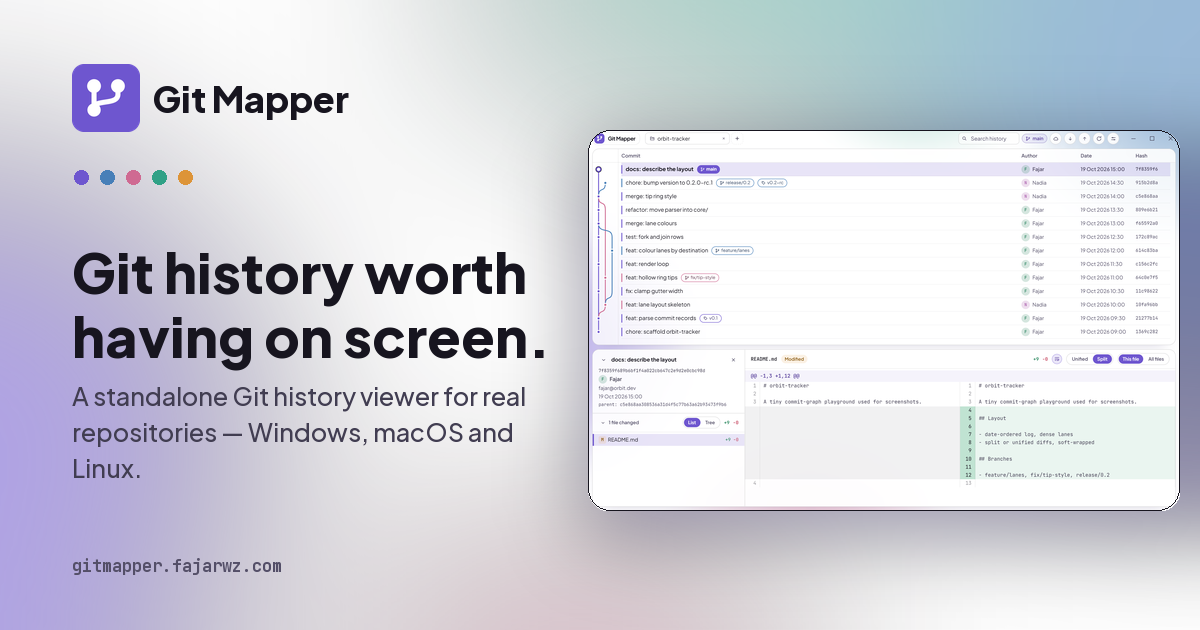
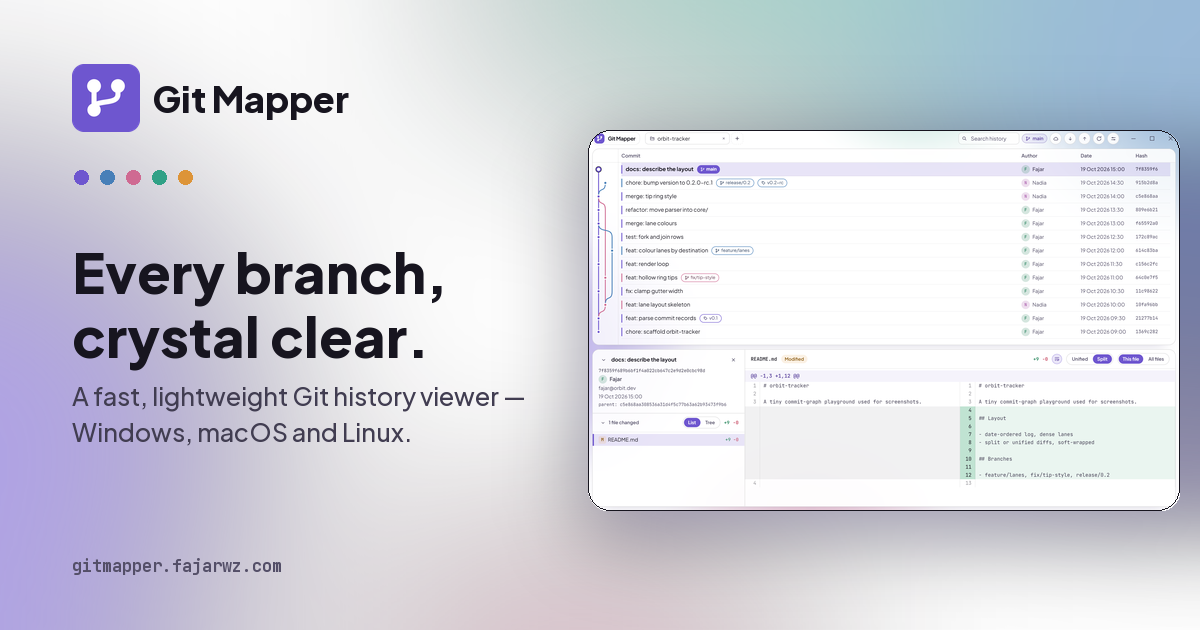
feat(website): lightweight-and-clean brand voice, performance made explicit

Changed region(s): [[0.0617, 0.3921, 0.4625, 0.754]]

diff --git a/PRODUCT.md b/PRODUCT.md
@@ -42,6 +42,7 @@ Lightweight zero-config viewer that runs real `git` for its data but looks like 
 - Name: **Git Mapper** (crate `git_mapper_lib`, id `com.fajarwz.git-mapper`).
 - Logo: `docs/logo.svg`; app icon regenerates from `src-tauri/icons/app-icon.svg` and must stay in sync with the title-bar BrandMark.
 - Aesthetic: frosted-glass commit feed, violet/rose/warm palette — and the full design-system rules in **AGENTS.md** (tokens only, custom shadow utilities, pill language, chrome backing) are binding. No further explicit commitments.
+- Voice: **lightweight and clean**. Copy states what it does in plain words (lightweight, zero-config, no account); proof beats adjectives, facts over flexes. The glass look is demonstrated by imagery, not claimed in headlines.
 
 ## Evidence on Hand
 
